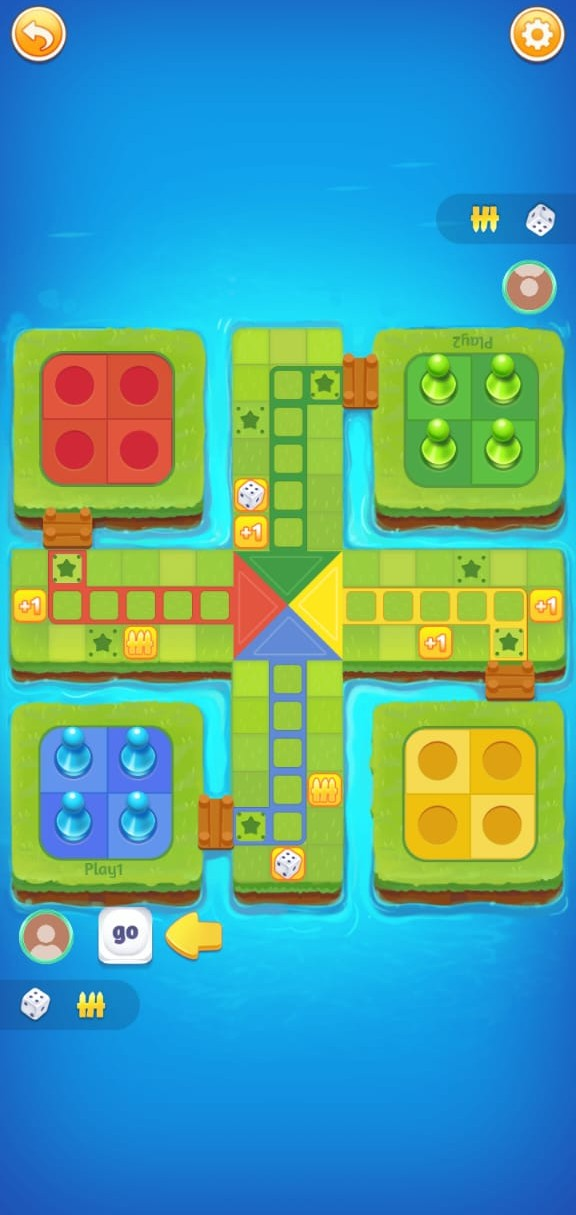
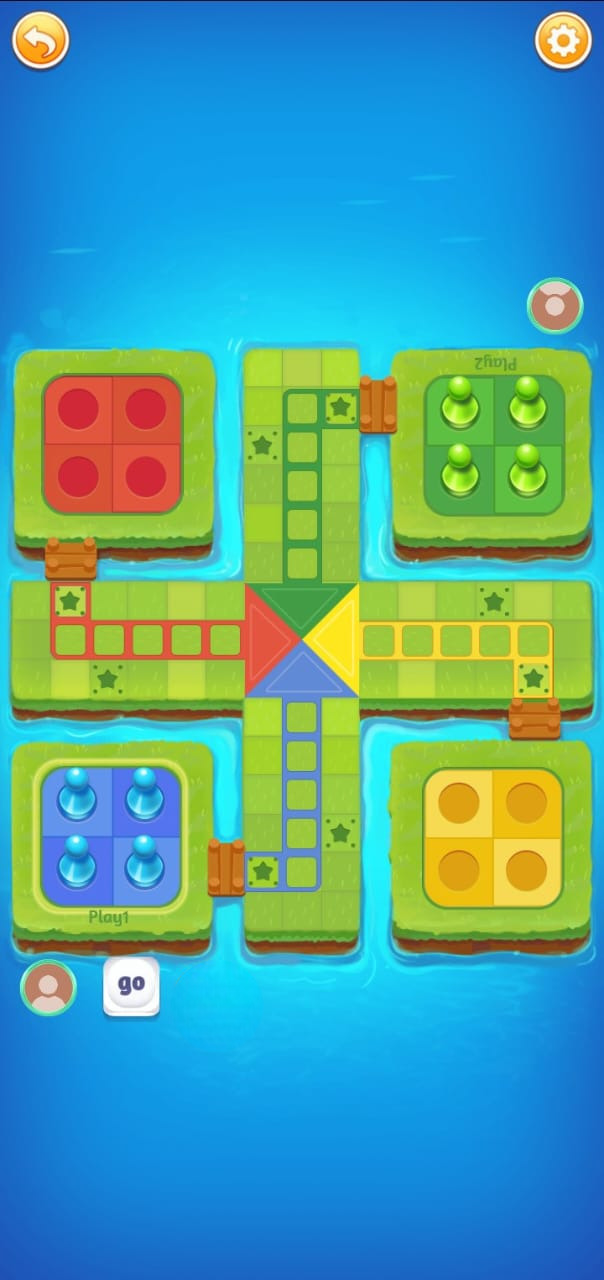
updated

diff --git a/src/App.jsx b/src/App.jsx
@@ -29,12 +29,16 @@ export default function App() {
         </div>
       )}
 
-      {/* 3⃣ Online Card */}
       {step === 3 && (
-        <Hotspot
-          style={{ left: "5%", top: "40%", width: "45%", height: "25%" }}
-          onNext={() => setStep(4)}
-        />
+        <>
+          {/* 👇 MOVED: Higher (15%) and to the Left (10%) */}
+          <DownArrow style={{ left: "14%", top: "18%" }} /> 
+          
+          <Hotspot
+            style={{ left: "5%", top: "40%", width: "45%", height: "25%" }}
+            onNext={() => setStep(4)}
+          />
+        </>
       )}
 
       {/* 4⃣ Online Popup */}
@@ -53,7 +57,7 @@ export default function App() {
         />
       )}
 
-      {/* 6⃣ ▶ PLAY BUTTON (BOTTOM BASED – MOBILE SAFE) */}
+      {/* 6⃣ PLAY BUTTON */}
       {step === 6 && (
         <Hotspot
           style={{
@@ -65,6 +69,36 @@ export default function App() {
           onNext={() => setStep(7)}
         />
       )}
+
+      {/* 7⃣ NEW: LEFT SIDE ARROW (Bottom, 20% from Left) */}
+      {step === 7 && (
+        <>
+          {/* ◀ Arrow: Moved further right (35%) and lower (12%) */}
+          <LeftArrow style={{ left: "28%", bottom: "8%" }} />
+
+          <Hotspot
+            style={{ left: "5%", bottom: "10%", width: "30%", height: "20%" }}
+            onNext={() => setStep(8)}
+          />
+        </>
+      )}
+
+    </div>
+  );
+}
+
+/* 🔥 NEW LEFT ARROW COMPONENT */
+function LeftArrow({ style }) {
+  return (
+    <div className="left-arrow" style={style}>
+      ◀
+    </div>
+  );
+}
+function DownArrow({ style }) {
+  return (
+    <div className="down-arrow" style={style}>
+      ▼
     </div>
   );
 }

diff --git a/src/styles.css b/src/styles.css
@@ -76,13 +76,13 @@ body {
   top: -14px;
   right: -14px;
 
-  width: 48px;
-  height: 48px;
+  width: 30px;
+  height: 30px;
 
   background: #ff2e2e;
   color: #fff;
 
-  font-size: 34px;
+  font-size: 20px;
   font-weight: bold;
 
   border-radius: 50%;
@@ -93,4 +93,63 @@ body {
   z-index: 20;
   box-shadow: 0 6px 14px rgba(0, 0, 0, 0.45);
   touch-action: manipulation;
+}
+/* ===============================
+   BOUNCING DOWN ARROW
+================================ */
+.down-arrow {
+  position: absolute;
+  z-index: 20;
+  
+  /* Appearance */
+  color: #ffcc00; /* Yellow for high visibility (change to white or red if needed) */
+  font-size: 50px; /* Size of the arrow */
+  text-shadow: 0 4px 8px rgba(0,0,0,0.5); /* Drop shadow for contrast */
+  
+  /* Prevent it from blocking clicks */
+  pointer-events: none; 
+  
+  /* Animation */
+  animation: bounce 1.5s infinite;
+}
+
+/* Bounce Animation Keyframes */
+@keyframes bounce {
+  0%, 20%, 50%, 80%, 100% {
+    transform: translateY(0);
+  }
+  40% {
+    transform: translateY(-15px);
+  }
+  60% {
+    transform: translateY(-7px);
+  }
+}
+/* ===============================
+   BOUNCING LEFT ARROW
+================================ */
+.left-arrow {
+  position: absolute;
+  z-index: 20;
+  
+  color: #ffcc00; /* Yellow */
+  font-size: 50px;
+  text-shadow: 0 4px 8px rgba(0,0,0,0.5);
+  
+  pointer-events: none;
+  
+  /* Horizontal Bounce Animation */
+  animation: bounceLeft 1.5s infinite;
+}
+
+@keyframes bounceLeft {
+  0%, 20%, 50%, 80%, 100% {
+    transform: translateX(0);
+  }
+  40% {
+    transform: translateX(15px); /* Move right */
+  }
+  60% {
+    transform: translateX(7px);
+  }
 }
